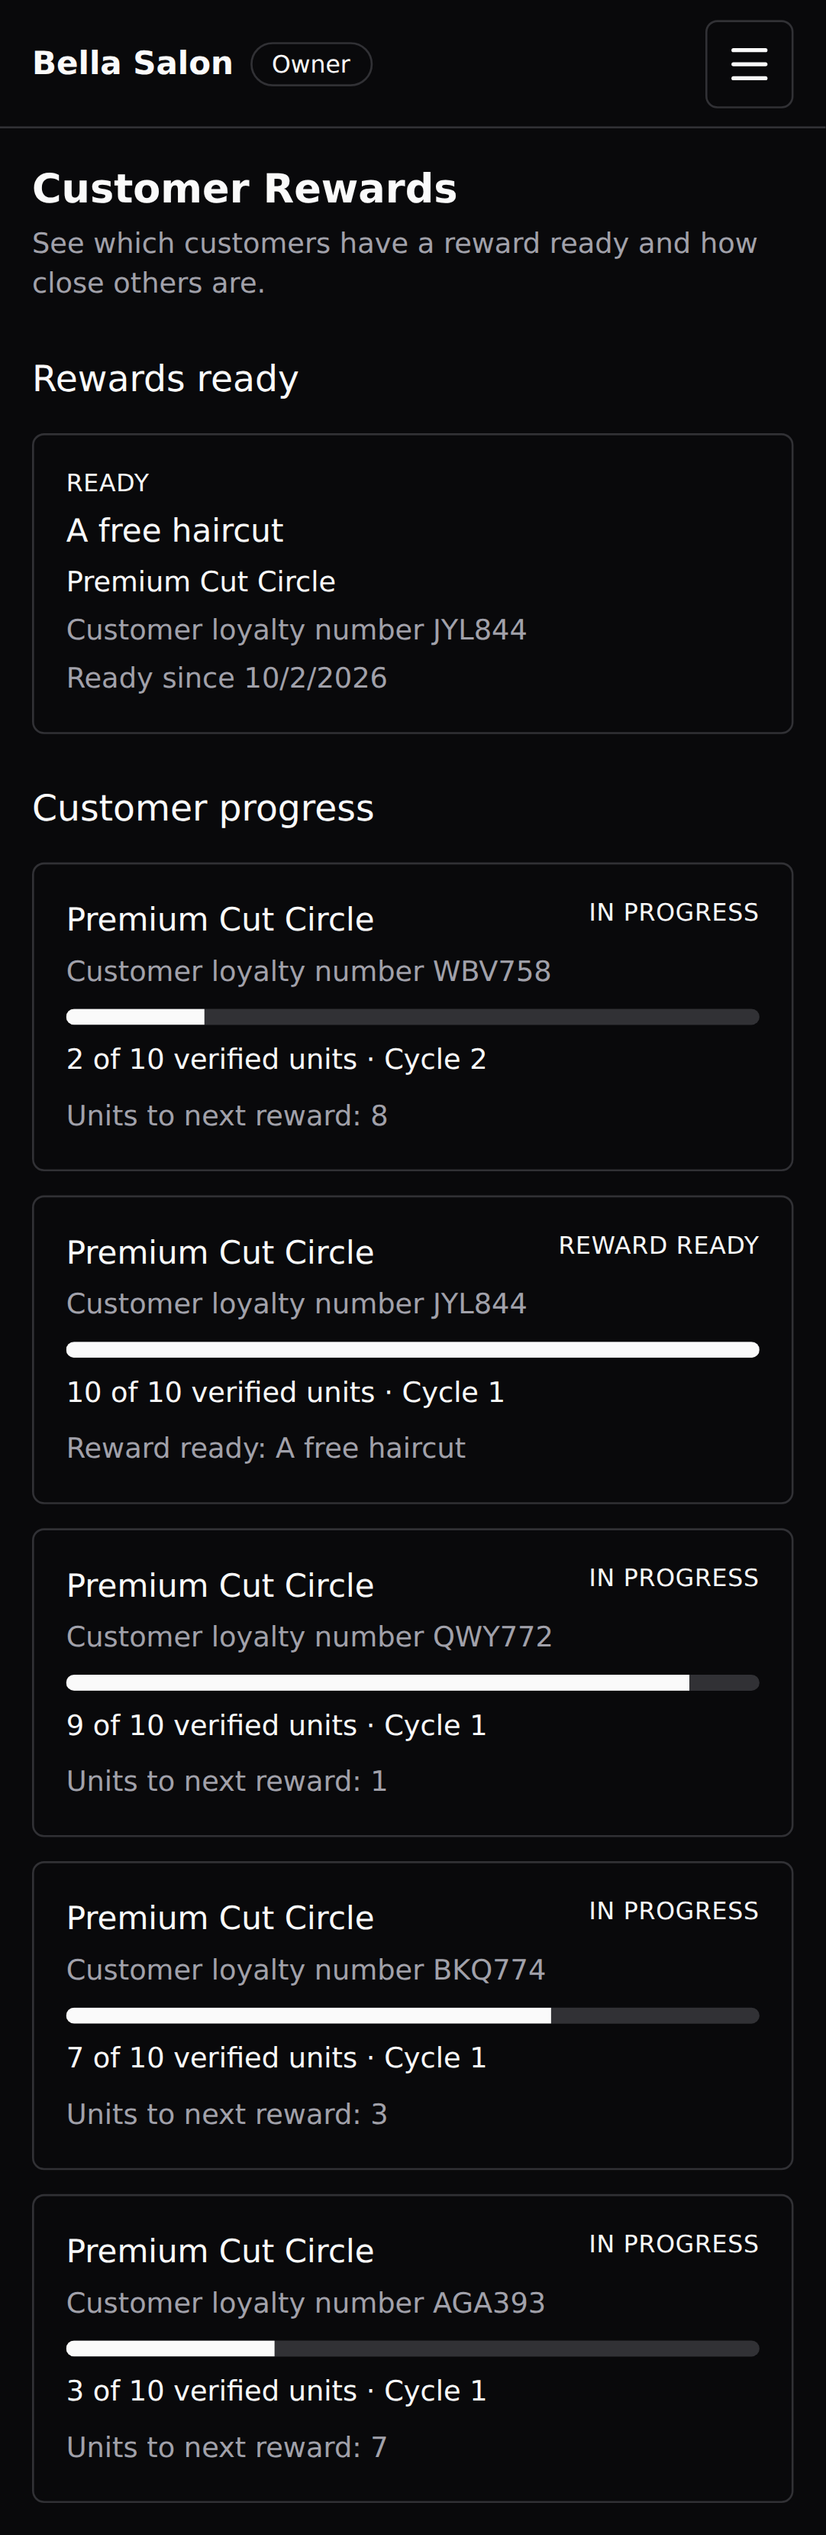
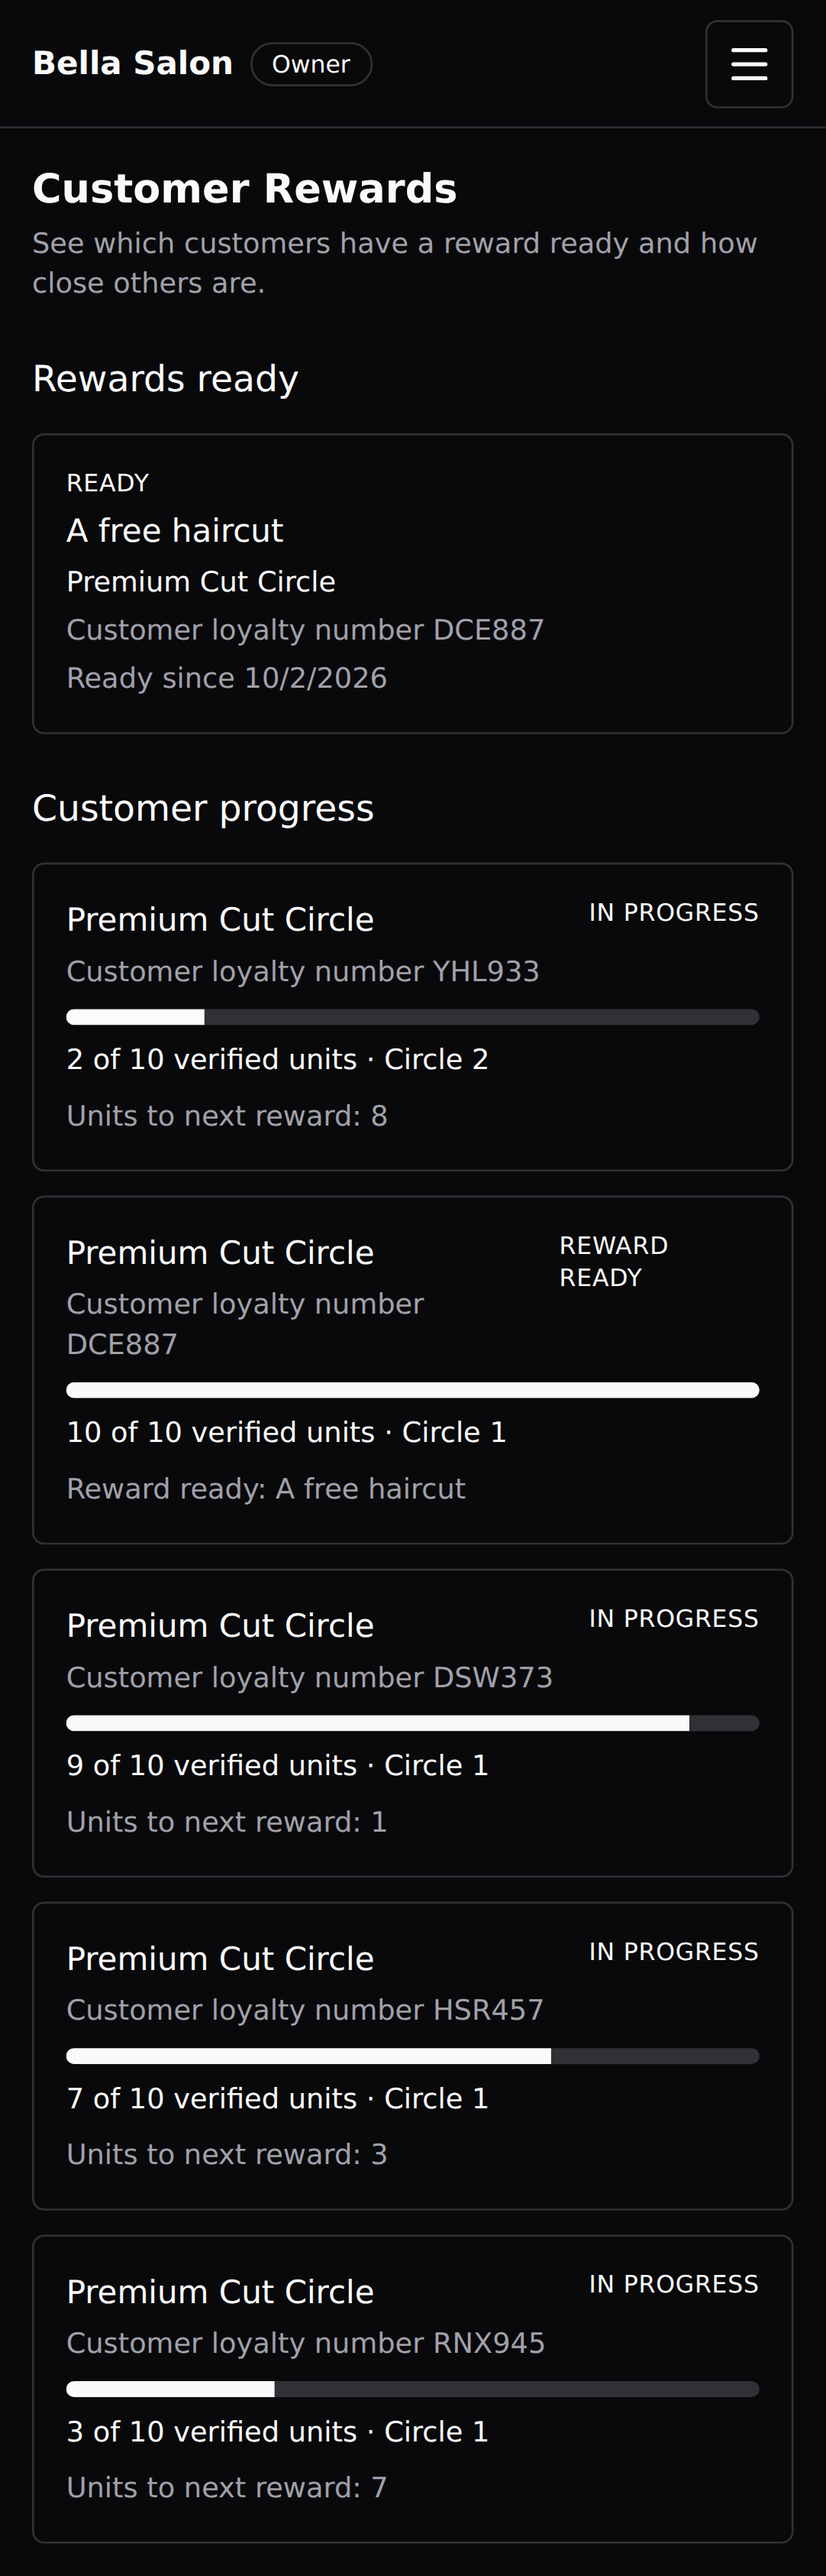
EA-003: use Circle (EN) / Cercle (FR) in remaining customer-facing Cycle copy
Founder disposition: business/customer-facing terminology is Circle.
Internal Cycle identifiers (keys, types, backend) unchanged.

Claude-Session: https://claude.ai/code/session_01NQ7uWo8MLShwfjzYLJ7KQG

diff --git a/apps/web/src/business/dashboard/CustomerRewardsProgressPage.test.tsx b/apps/web/src/business/dashboard/CustomerRewardsProgressPage.test.tsx
@@ -177,9 +177,9 @@ describe("CustomerRewardsProgressPage", () => {
     expect(bars[0]).toHaveAttribute("aria-valuemax", "10");
     expect(bars[1]).toHaveAttribute("aria-valuenow", "3");
     expect(within(progress).getByText("Reward ready: One free coffee")).toBeInTheDocument();
-    expect(within(progress).getByText("Units waiting for the next cycle: 2")).toBeInTheDocument();
+    expect(within(progress).getByText("Units waiting for the next Circle: 2")).toBeInTheDocument();
     expect(within(progress).getByText("Units to next reward: 7")).toBeInTheDocument();
-    expect(within(progress).getByText("3 of 10 verified units · Cycle 2")).toBeInTheDocument();
+    expect(within(progress).getByText("3 of 10 verified units · Circle 2")).toBeInTheDocument();
     expect(within(progress).getByText("In progress")).toBeInTheDocument();
   });
 

diff --git a/apps/web/src/i18n/locales/fr.ts b/apps/web/src/i18n/locales/fr.ts
@@ -440,10 +440,10 @@ export const fr = {
       customerUnknown: "Numéro de fidélité du client indisponible",
       availableSince: "Prête depuis le {{date}}",
       unitsOfThreshold: "{{allocated}} sur {{threshold}} unités vérifiées",
-      cycleNumber: "Cycle {{number}}",
+      cycleNumber: "Cercle {{number}}",
       unitsToReward: "Unités restantes avant la récompense : {{count}}",
       rewardReady: "Récompense prête : {{description}}",
-      pendingUnits: "Unités en attente du prochain cycle : {{count}}",
+      pendingUnits: "Unités en attente du prochain Cercle : {{count}}",
       rewardState: {
         available: "Prête",
         redeemed: "Utilisée",

diff --git a/apps/web/src/i18n/locales/en.ts b/apps/web/src/i18n/locales/en.ts
@@ -429,10 +429,10 @@ export const en = {
       customerUnknown: "Customer loyalty number unavailable",
       availableSince: "Ready since {{date}}",
       unitsOfThreshold: "{{allocated}} of {{threshold}} verified units",
-      cycleNumber: "Cycle {{number}}",
+      cycleNumber: "Circle {{number}}",
       unitsToReward: "Units to next reward: {{count}}",
       rewardReady: "Reward ready: {{description}}",
-      pendingUnits: "Units waiting for the next cycle: {{count}}",
+      pendingUnits: "Units waiting for the next Circle: {{count}}",
       rewardState: {
         available: "Ready",
         redeemed: "Redeemed",

diff --git a/docs/05-implementation/reports/ea-003-business-owner-manager-experience-assembly-implementation-report-2026-10-02.md b/docs/05-implementation/reports/ea-003-business-owner-manager-experience-assembly-implementation-report-2026-10-02.md
@@ -88,7 +88,7 @@ Playwright asserts the presence/absence at both viewports. Hidden controls are c
 
 ## 7. EN/FR
 
-All 38 new keys exist in `en.ts` and `fr.ts` (`dashboard.commandCentre.*`); the existing locale-parity test passes. **Copy is not approved** — "Circle" is used in new copy while older keys say "Cycle"; Founder copy review requested.
+All 38 new keys exist in `en.ts` and `fr.ts` (`dashboard.commandCentre.*`); the existing locale-parity test passes. **Copy is not approved** — Founder disposition applied: customer/business-facing copy says "Circle" (EN) / "Cercle" (FR); the two remaining older visible strings (`loyaltyVisibility.cycleNumber`, `loyaltyVisibility.pendingUnits`) were corrected. Internal "Cycle" identifiers are unchanged. Copy is approved for Founder Preview only, not final production copy.
 
 ## 8. EA-002 compatibility
 
